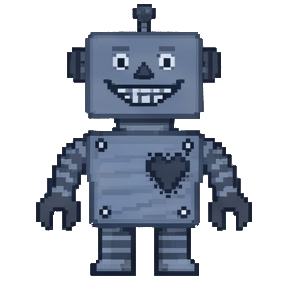
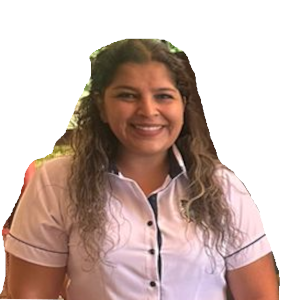
UI: added visual restart button and rearranged arrows into keyboard-style layout

diff --git a/juego_robot.py b/juego_robot.py
@@ -205,7 +205,7 @@ def cargar_recursos():
             IMAGEN_META = pygame.transform.smoothscale(img, (TAMANO_CELDA - 20, TAMANO_CELDA - 20))
         except: pass
         
-        mapeo = {"up": "ARRIBA", "down": "ABAJO", "left": "IZQUIERDA", "right": "DERECHA", "play": "PLAY"}
+        mapeo = {"up": "ARRIBA", "down": "ABAJO", "left": "IZQUIERDA", "right": "DERECHA", "play": "PLAY", "restart": "REINICIAR"}
         for file_name, key in mapeo.items():
             try:
                 img = pygame.image.load(f"icon_{file_name}.png").convert_alpha()
@@ -274,16 +274,25 @@ def main():
         pantalla_actual_w, pantalla_actual_h = pantalla.get_size()
         offset_x_global = (pantalla_actual_w - COLUMNAS * TAMANO_CELDA) // 2
         
-        ancho_btn, alto_btn, espacio = 160, 100, 20
-        inicio_x_btns = (pantalla_actual_w - (ancho_btn * 5 + espacio * 4)) // 2
-        y_botones = pantalla_actual_h - 140
+        # --- DISEÑO DE BOTONES TILO TECLADO ---
+        ancho_btn, alto_btn, espacio = 140, 85, 12
+        # Calculamos el ancho total del bloque (3 de flechas + 2 de acción + espacios)
+        ancho_total_ui = (ancho_btn * 5) + (espacio * 6)
+        x_base = (pantalla_actual_w - ancho_total_ui) // 2
+        y_base = pantalla_actual_h - 110 # Fila de abajo
         
         botones = [
-            Boton(inicio_x_btns, y_botones, ancho_btn, alto_btn, "ARRIBA", (129, 212, 250)),
-            Boton(inicio_x_btns + (ancho_btn + espacio), y_botones, ancho_btn, alto_btn, "ABAJO", (244, 143, 177)),
-            Boton(inicio_x_btns + (ancho_btn + espacio) * 2, y_botones, ancho_btn, alto_btn, "IZQUIERDA", (255, 245, 157)),
-            Boton(inicio_x_btns + (ancho_btn + espacio) * 3, y_botones, ancho_btn, alto_btn, "DERECHA", (165, 214, 167)),
-            Boton(inicio_x_btns + (ancho_btn + espacio) * 4, y_botones, ancho_btn, alto_btn, "PLAY", COLOR_EJECUTAR)
+            # Fila Inferior (Flechas)
+            Boton(x_base, y_base, ancho_btn, alto_btn, "IZQUIERDA", (255, 245, 157)),
+            Boton(x_base + (ancho_btn + espacio), y_base, ancho_btn, alto_btn, "ABAJO", (244, 143, 177)),
+            Boton(x_base + (ancho_btn + espacio) * 2, y_base, ancho_btn, alto_btn, "DERECHA", (165, 214, 167)),
+            
+            # Fila Superior (Arriba - Centrada sobre Abajo)
+            Boton(x_base + (ancho_btn + espacio), y_base - alto_btn - 8, ancho_btn, alto_btn, "ARRIBA", (129, 212, 250)),
+            
+            # Botones de Acción (A la derecha)
+            Boton(x_base + (ancho_btn + espacio) * 3 + 30, y_base, ancho_btn, alto_btn, "PLAY", COLOR_EJECUTAR),
+            Boton(x_base + (ancho_btn + espacio) * 4 + 30, y_base, ancho_btn, alto_btn, "REINICIAR", (255, 204, 128))
         ]
 
         for evento in pygame.event.get():
@@ -300,6 +309,11 @@ def main():
                         if btn.accion == "PLAY":
                             if cola_instrucciones:
                                 ejecutando, instruccion_actual, ultimo_movimiento_tiempo = True, 0, tiempo_actual
+                        elif btn.accion == "REINICIAR":
+                            # Acción de reinicio manual por botón
+                            robot = Robot(0, 0)
+                            meta_pos_lista = [(COLUMNAS - 1, FILAS - 1), (3, 2), (5, 0), (1, 3)]
+                            cola_instrucciones, ejecutando, lista_fuegos = [], False, []
                         else:
                             cola_instrucciones.append(btn.accion)
             
@@ -363,7 +377,7 @@ def main():
         pantalla.blit(img_inst, (20, 10))
 
         fin_grilla_y = MARGEN_SUPERIOR + FILAS * TAMANO_CELDA
-        y_plan = fin_grilla_y + ((y_botones - fin_grilla_y) // 2) - 25
+        y_plan = fin_grilla_y + ((y_base - fin_grilla_y) // 2) - 25
         img_plan_label = fuente_pequena.render("Instrucciones:", True, COLOR_TEXTO)
         pantalla.blit(img_plan_label, (offset_x_global, y_plan + 10))
         
